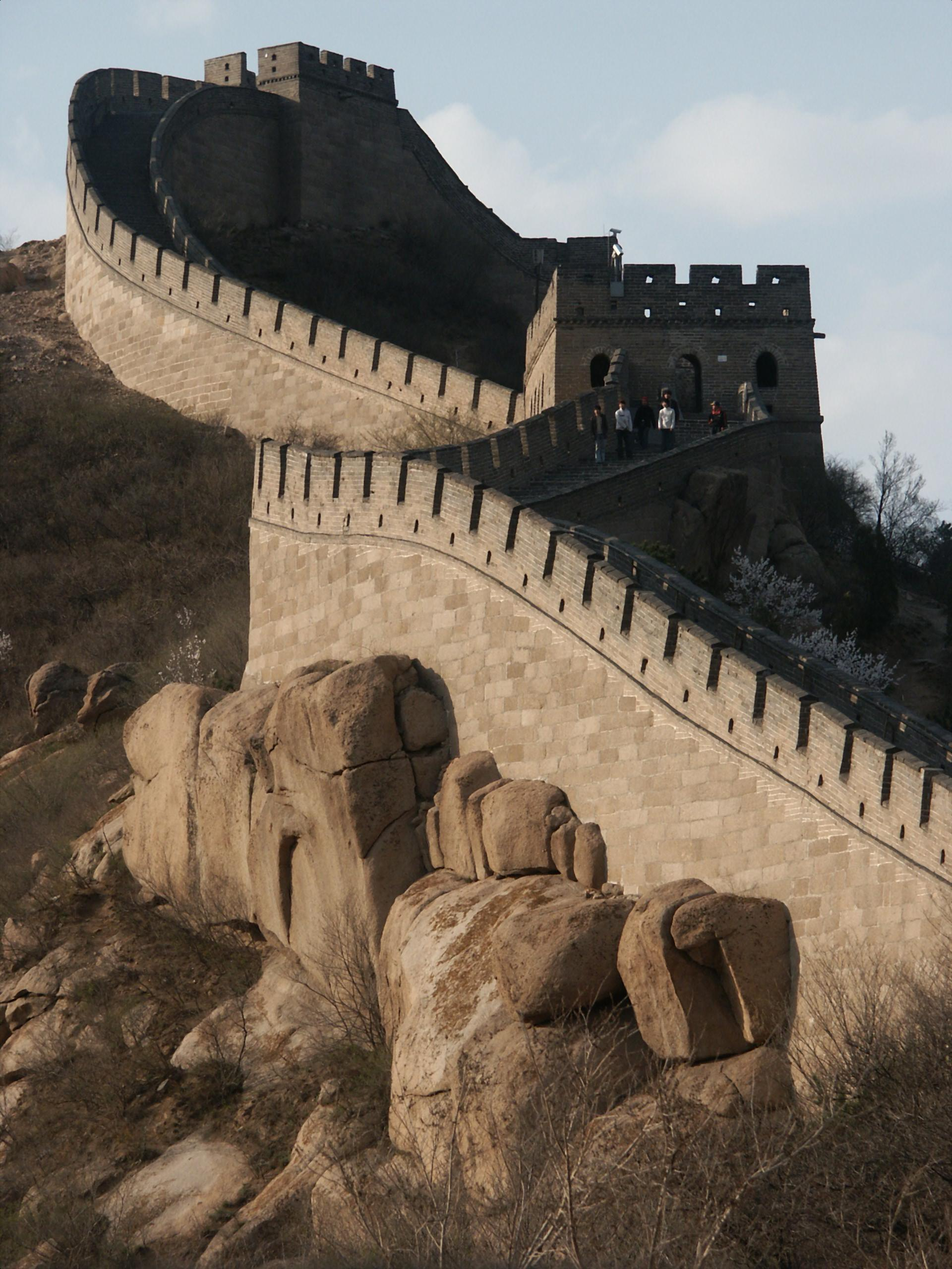
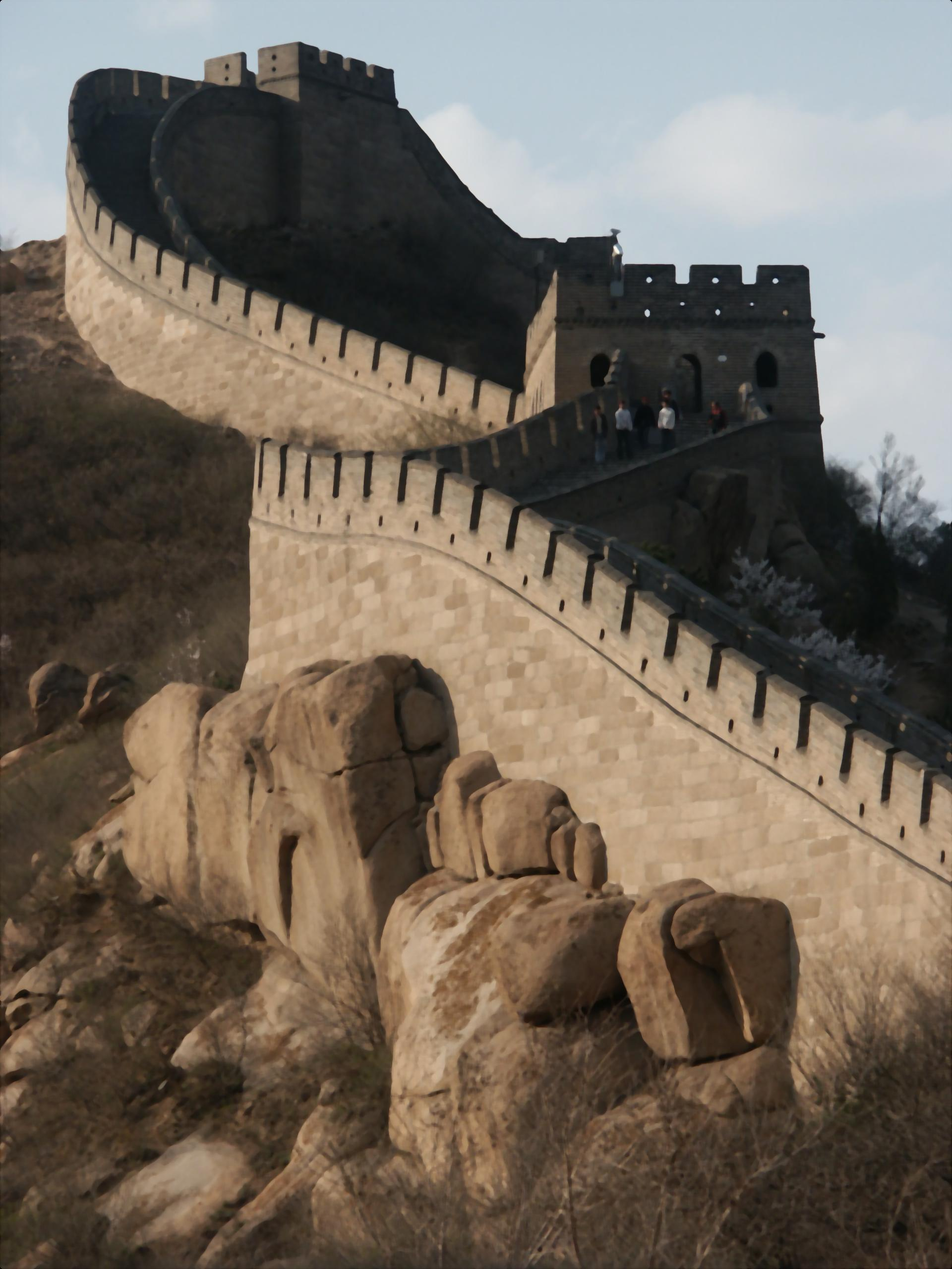
81 pixels instead of 9 pixel filter...

diff --git a/Prac2.cpp b/Prac2.cpp
@@ -29,16 +29,6 @@ void bubblesort(int startInt, int split);
 void* Thread_Main(void* Parameter){
  int ID = *((int*)Parameter);
 
-//  pthread_mutex_lock(&Mutex);
-//   printf("Hello from thread %d\n", ID);
-//  pthread_mutex_unlock(&Mutex);
-
-//  for(int j = 0; j < 1e6; j++); // Do some heavy calculation
-
-//  pthread_mutex_lock(&Mutex);
-//   printf("Thread %d: I QUIT!\n", ID);
-//  pthread_mutex_unlock(&Mutex);
-
  bubblesort(ID,Thread_Count);
 
  return 0;
@@ -93,15 +83,15 @@ int main(int argc, char** argv){
  // Need to create arrays for the color value of a pixel and those surrounding it
  // Pixel values outside the image boundary will be taken as 0
  // Colour arrays initialised with zeros
-printf("Starting sequential sort\n");
-tic();
-bubblesort(0,1);
-printf("Time of sequential sort = %lg ms\n\n", (double)toc()/1e-3);
-if(!Output.Write("Data/SeqOutput.jpg")){
-  printf("Cannot write image\n");
-  return -3;
- }
- // Spawn threads...
+// printf("Starting sequential sort\n");
+// tic();
+// bubblesort(0,1);
+// printf("Time of sequential sort = %lg ms\n\n", (double)toc()/1e-3);
+// if(!Output.Write("Data/SeqOutput.jpg")){
+//   printf("Cannot write image\n");
+//   return -3;
+//  }
+ //Spawn threads...
  int       Thread_ID[Thread_Count]; // Structure to keep the tread ID
  pthread_t Thread   [Thread_Count]; // pThreads structure for thread admin
 tic();
@@ -110,10 +100,7 @@ tic();
   pthread_create(Thread+j, 0, Thread_Main, Thread_ID+j);
  }
 
- // Printing stuff is a critical section...
-//  pthread_mutex_lock(&Mutex);
-//   printf("Threads created :-)\n");
-//  pthread_mutex_unlock(&Mutex);
+
 
  //tic();
  // Wait for threads to finish
@@ -125,11 +112,11 @@ tic();
   }
  }
 
- // No more active threads, so no more critical sections required
+ //No more active threads, so no more critical sections required
  printf("All threads have quit\n");
  printf("Time taken for threads to run = %lg ms\n", toc()/1e-3);
 
-// Write the output image
+//Write the output image
 if(!Output.Write("Data/ThreadOutput.jpg")){
   printf("Cannot write image\n");
   return -3;
@@ -144,16 +131,15 @@ void bubblesort(int startInt, int split){
 //JPEG Output2;
 //Output2.Allocate(Input.Width, Input.Height, Input.Components);
 int x, y;
-int red[9];
+int j, k;
 int start = startInt*(ceil(Input.Height/split));
 int end = start + ceil(Input.Height/split);
-
+int index;
 for(y = start; y < end; y++){
     for(x = 0; x < Input.Width*Input.Components; x++){
         //memset(red, 0, sizeof(red)); 
-        for(int a=0; a < 10; a++){
-            red[a]=0;
-        }
+        int red[81];
+        int k=0;
         //printf("x: %d y: %d \n", x,y);
         // Rxample row = [R,G,B,R,G,B,...,B]
         // Color arrays index corresponds to pixel and surrounding cells as follows: |0|1|2|
@@ -161,100 +147,34 @@ for(y = start; y < end; y++){
         //                                                                           |6|7|8|
         // First check for edge cases
         // Starting with left border
-        if(x<4){
-            // Check if we're on a corner pixel
-            if(y<1){
-                red[4] = Input.Rows[y][x];
-                red[5] = Input.Rows[y][x+3];
-                red[7] = Input.Rows[y+1][x];
-                red[8] = Input.Rows[y+1][x+3];
-            }
-            else if (y==Input.Height-1){
-                red[1] = Input.Rows[y-1][x];
-                red[2] = Input.Rows[y-1][x+3];
-                red[4] = Input.Rows[y][x];
-                red[5] = Input.Rows[y][x+3];
-            }
-            // Left border case
-            else{
-                red[1] = Input.Rows[y-1][x];
-                red[2] = Input.Rows[y-1][x+3];
-                red[4] = Input.Rows[y][x];
-                red[5] = Input.Rows[y][x+3];
-                red[7] = Input.Rows[y+1][x];
-                red[8] = Input.Rows[y+1][x+3];
-            }
-        }
-        // Check right border
-        else if (x>=Input.Width*Input.Components-3) {
-            if(y<1){
-                red[4] = Input.Rows[y][x];
-                red[3] = Input.Rows[y][x-3];
-                red[6] = Input.Rows[y+1][x-3];
-                red[7] = Input.Rows[y+1][x];
-            }
-            else if (y==Input.Height-1){
-                red[0] = Input.Rows[y-1][x-3];
-                red[1] = Input.Rows[y-1][x];
-                red[4] = Input.Rows[y][x];
-                red[3] = Input.Rows[y][x-3];
-            }
-            else{
-                red[0] = Input.Rows[y-1][x-3];
-                red[1] = Input.Rows[y-1][x];
-                red[4] = Input.Rows[y][x];
-                red[7] = Input.Rows[y+1][x];
-                red[3] = Input.Rows[y][x-3];
-                red[6] = Input.Rows[y+1][x-3];
-            }
-        }
-        else if (y==0) {
-            red[3] = Input.Rows[y][x-3];
-            red[4] = Input.Rows[y][x];
-            red[5] = Input.Rows[y][x+3];
-            red[6] = Input.Rows[y+1][x-3];
-            red[7] = Input.Rows[y+1][x];
-            red[8] = Input.Rows[y+1][x+3];
-        }
-        else if (y==Input.Height-1){
-            red[0] = Input.Rows[y-1][x-3];
-            red[1] = Input.Rows[y-1][x];
-            red[2] = Input.Rows[y-1][x+3];
-            red[4] = Input.Rows[y][x];
-            red[5] = Input.Rows[y][x+3];
-            red[3] = Input.Rows[y][x-3];
-            }
+        //index = 40;
+        //printf("x %d   y %d \n",x,y);
+        //red[index] = Input.Rows[y][x];
         
-        // Non-border case
-        else{
-            red[0] = Input.Rows[y-1][x-3];
-            red[1] = Input.Rows[y-1][x];
-            red[2] = Input.Rows[y-1][x+3];
-            red[3] = Input.Rows[y][x-3];
-            red[4] = Input.Rows[y][x];
-            red[5] = Input.Rows[y][x+3];
-            red[6] = Input.Rows[y+1][x-3];
-            red[7] = Input.Rows[y+1][x];
-            red[8] = Input.Rows[y+1][x+3];
-        }
-        // for(int z=0;z<10;z++){
-        //     printf(" %d ",red[z]);
-        // }
-        // printf("\n");
-        bubbleSort(red, sizeof(red)/sizeof(red[0]));
-        // for(int z=0;z<10;z++){
-        //     printf(" %d ",red[z]);
-        // }
-        // printf("\n");
-        //Output2.Rows[y][x] = red[4];
-	Output.Rows[y][x] = red[4];
+        for (int j = -4; j <= 4; j++) //4 down & up four from y
+            {
+                for (int i = (-4 * Input.Components); i <= (4 * Input.Components); i += 3, k++) //each 1 = 3
+                {
+
+                    if (((y + j) < 0) || ((y + j) >= (Input.Height)))
+                    {
+                        red[k] = 0;
+                    }
+                    else if (((x + i) < 0) || ((x + i) >= (Input.Components * Input.Width)))
+                    {
+                        red[k] = 0;
+                    }
+                    else
+                    {
+                        red[k] = Input.Rows[y + j][x + i];
+                    }
+                }
+            }
+    bubbleSort(red, sizeof(red)/sizeof(red[0]));
+	Output.Rows[y][x] = red[39];
     }
  }
 
- //if(!Output2.Write("Data/Output2.jpg")){
-//if(!Output.Write("Data/Output2.jpg")){
-//  printf("Cannot write image\n");
-// }
 
 }
 
